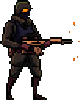
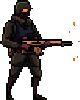
new images for shooting and animation bug fix

Changed region(s): [[0.625, 0.36, 0.925, 0.48]]

diff --git a/src/Entities/Player.ts b/src/Entities/Player.ts
@@ -113,13 +113,21 @@ export default class Player extends MoveableEntity {
     }
 
     let isWalking = false;
-    if (wantMove("left") && canMove("left", this.getMovementSpeed())) {
+    if (
+      wantMove("left") &&
+      canMove("left", this.getMovementSpeed()) &&
+      !wantMove("shoot")
+    ) {
       isWalking = true;
       this.setMoveDirection("left");
       this.x -= this.getMovementSpeed();
     }
 
-    if (wantMove("right") && canMove("right", this.getMovementSpeed())) {
+    if (
+      wantMove("right") &&
+      canMove("right", this.getMovementSpeed()) &&
+      !wantMove("shoot")
+    ) {
       isWalking = true;
       this.setMoveDirection("right");
       this.x += this.getMovementSpeed();
@@ -143,6 +151,9 @@ export default class Player extends MoveableEntity {
       setTimeout(() => {
         this.texture = "./Player/Shoot/Frame4.png";
       }, 240);
+      setTimeout(() => {
+        this.texture = "./Player/Shoot/Frame5.png";
+      }, 300);
 
       this.gunReloadingTicksLeft = 60;
       this.bulletCooldown = bulletCooldownValue;
